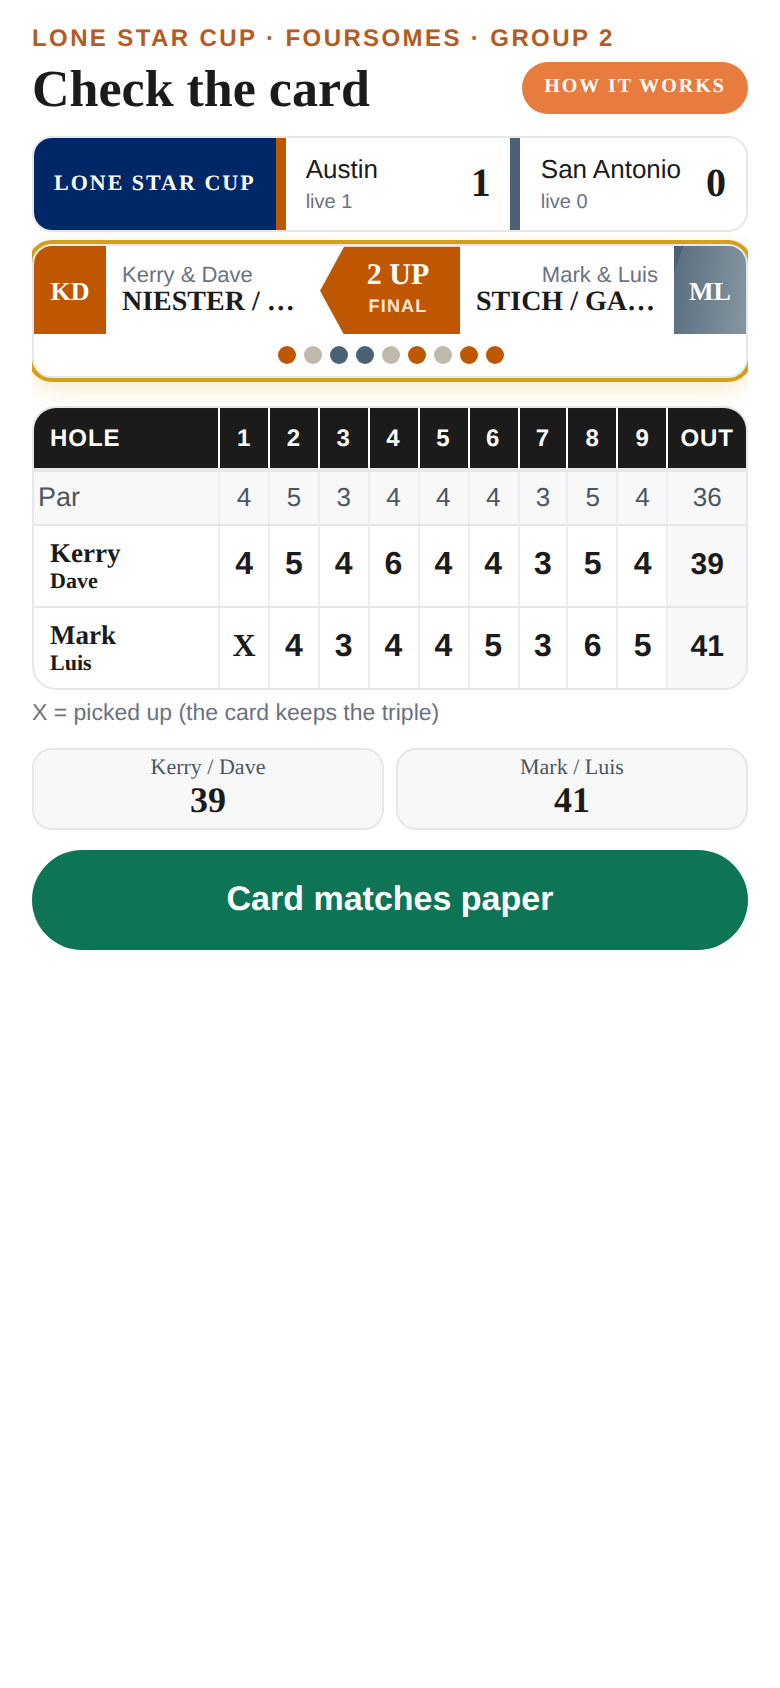
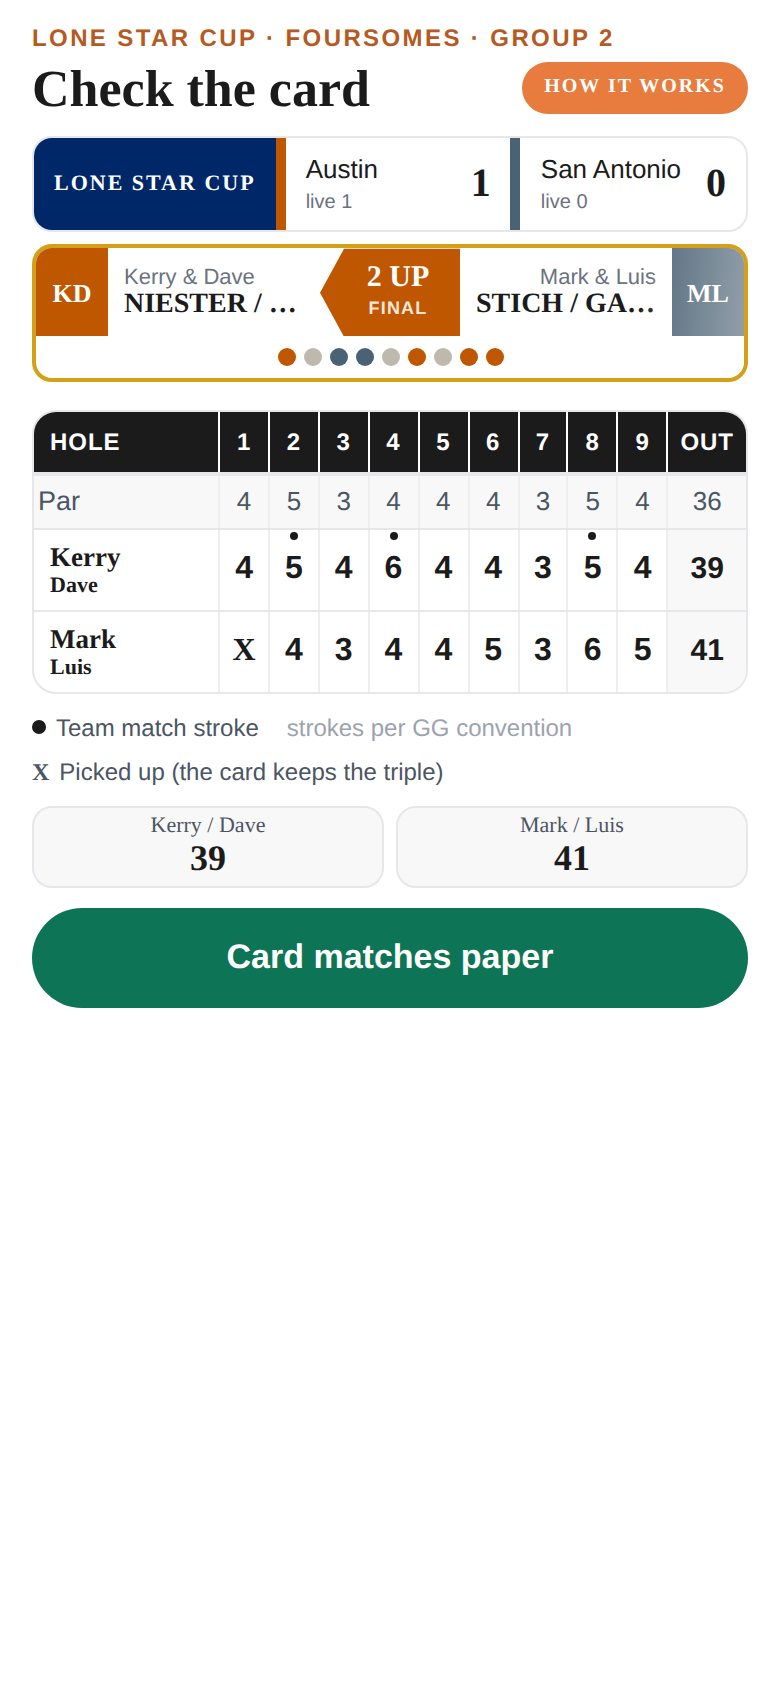
Score entry: Chapman team rows and team pop dots (CA #721)
Claude-Session: https://claude.ai/code/session_01PeGTnLppc6bpJPrSmUWsVP

Changed region(s): [[0.0308, 0.1232, 0.9538, 0.6161], [0.9538, 0.154, 0.9846, 0.2156]]

diff --git a/transaction-tracker/templates/score_entry.html b/transaction-tracker/templates/score_entry.html
@@ -481,7 +481,24 @@
             const g = (m) => Math.max(0, Number(((m || {})[String(cid)] || {})[String(n)]) || 0);
             return {k: g(card.strokes), t: g(card.team_strokes)};
         }
+        // A one-ball team (Chapman in the cup) gets its pops from the match
+        // engine's own strokes for that side (CA #721: "Draw the Chapman team's
+        // pop dots from compute_match_detail's strokes").
+        function teamPops(cids, n) {
+            const key = cids.slice().sort((a, b) => a - b).join(",");
+            for (const m of card.match_status || []) {
+                const k = m.sides.findIndex((sd) => sd.slice().sort((a, b) => a - b).join(",") === key);
+                if (k < 0) continue;
+                const h = (m.card || []).find((x) => x.hole === n);
+                return h ? Math.max(0, h.s[k] || 0) : 0;
+            }
+            return 0;
+        }
         function popDots(cids, n, small) {
+            if (cids && cids.length === 2) {
+                const k = teamPops(cids, n);
+                return k ? `<span class="se-pops${small ? " cell" : ""}" aria-hidden="true"><span class="g">${"<i class=\"se-pop\"></i>".repeat(k)}</span><span class="g"></span></span>` : "";
+            }
             if (!cids || cids.length !== 1) return "";
             const p = popsOf(cids[0], n);
             if (!p.k && !p.t) return "";
@@ -507,8 +524,9 @@
             const solo = new Set(subjects().filter((x) => x.cids.length === 1).map((x) => String(x.cids[0])));
             const any = (m) => Object.entries(m || {}).some(([c, h]) => solo.has(c) && Object.values(h || {}).some((v) => v > 0));
             const a = any(card.strokes), b = any(card.team_strokes);
-            if (!a && !b) return "";
-            return `<div class="se-popkey">${a ? `<span><i class="se-pop"></i>PH pop</span>` : ""}${b ? `<span><i class="se-pop t"></i>${esc((card.team_game || {}).label || "Team Net")} pop</span>` : ""}${card.strokes_note ? `<span style="color:#9CA3AF">${esc(card.strokes_note)}</span>` : ""}</div>`;
+            const tm = subjects().some((x) => x.cids.length === 2 && (card.match_status || []).some((m) => (m.card || []).some((h) => h.s.some((v) => v > 0))));
+            if (!a && !b && !tm) return "";
+            return `<div class="se-popkey">${a ? `<span><i class="se-pop"></i>PH pop</span>` : ""}${tm ? `<span><i class="se-pop"></i>Team match stroke</span>` : ""}${b ? `<span><i class="se-pop t"></i>${esc((card.team_game || {}).label || "Team Net")} pop</span>` : ""}${card.strokes_note ? `<span style="color:#9CA3AF">${esc(card.strokes_note)}</span>` : ""}</div>`;
         }
         // The tee a player plays, from the tee sheet's legend (card.tees).
         function teeOf(cid) {

diff --git a/transaction-tracker/static/js/version.js b/transaction-tracker/static/js/version.js
@@ -1,5 +1,13 @@
-window.TGF_VERSION = "2.501.1";
+window.TGF_VERSION = "2.501.2";
 window.TGF_CHANGELOG = [
+  {
+    version: "2.501.2",
+    date: "2026-09-26",
+    title: "Score entry: Chapman team rows and team pop dots (CA #721)",
+    changes: [
+      "CA #721 (Kerry ratified the Lone Star Cup allowances): the alternate-shot session is CHAPMAN. A Chapman session now makes one team row per pair exactly as foursomes did (a set of one-ball formats, so Track B renaming the format cannot split a pair into two rows), and the team row's pop dots are drawn from the match engine's own strokes for that side ('Draw the Chapman team's pop dots from compute_match_detail's strokes'), keyed 'Team match stroke'. X and pickup behaviour are unchanged."
+    ]
+  },
   {
     version: "2.501.1",
     date: "2026-09-26",

diff --git a/transaction-tracker/test_score_entry.py b/transaction-tracker/test_score_entry.py
@@ -367,6 +367,19 @@ fm = se.get_group_card(fg)["match_status"]
 check("X (the triple, picked up) loses the hole to a holed triple; San Antonio now leads",
       fm[0]["holes"].get("2") == 2 and fm[0]["lead_team"] == "sa", fm)
 check("a singles session's pair is never made a team", not se.get_group_card(sg)["teams"])
+# CA #721: the cup's alternate-shot session is CHAPMAN; the renamed format still makes one team row
+fr2 = se.create_round(900, 9, label="chapman", course_holes=NINE)["round_id"]
+fg2 = se.upsert_group(fr2, 1, players=[{"customer_id": c, "display_name": n, "playing_handicap": ph}
+                                       for c, n, ph in [(101, "Kerry Niester", 2), (105, "Mark Stich", 20),
+                                                        (102, "Adam Baker", 10), (104, "Robert Hogue", 18)]])["group_id"]
+_d = json.loads(db.get_app_setting("lsc_matches"))
+_d["sessions"].append({"id": "s3", "format": "chapman", "se_round": fr2,
+                       "matches": [{"id": "CH1", "austin": [101, 105], "sa": [102, 104]}]})
+db.set_app_setting("lsc_matches", json.dumps(_d))
+_c2 = se.get_group_card(fg2)
+check("a Chapman session makes one team row per pair, like foursomes", len(_c2["teams"]) == 2, _c2["teams"])
+check("the match engine's per-hole strokes reach the card for the team's pop dots",
+      _c2["match_status"] and all("s" in h and len(h["s"]) == 2 for h in _c2["match_status"][0]["card"]), _c2["match_status"][:1])
 db.set_app_setting("lsc_matches", "")
 check("a round-level (non-cup) match has no lead team",
       all(m["lead_team"] is None for m in se.get_group_card(sg)["match_status"]))

diff --git a/transaction-tracker/email_parser/score_entry.py b/transaction-tracker/email_parser/score_entry.py
@@ -1175,6 +1175,13 @@ def _lock_view(lock, device_id: str | None, names: dict) -> dict:
             "heartbeat_at": lock["heartbeat_at"]}
 
 
+# The team formats where a pair plays ONE ball. CA #721 (Kerry ratified
+# 2026-09-26): the cup's alternate-shot session is CHAPMAN, and Track B renames
+# the format from "foursomes"; both names (and plain alternate shot) make one
+# team row, so the rename can't silently split a pair into two rows.
+ONE_BALL_FORMATS = {"foursomes", "chapman", "alternate_shot", "alternate-shot"}
+
+
 def _ensure_cup_teams(group_id: int, db_path=None) -> list:
     """FOURSOMES in the Lone Star Cup (Kerry 2026-09-26: "Team Entries for
     FOURBALL and FOURSOMES. Where it would show both players on one team with
@@ -1195,7 +1202,7 @@ def _ensure_cup_teams(group_id: int, db_path=None) -> list:
                 "SELECT customer_id_a, customer_id_b FROM se_teams WHERE round_id = ?", (rid,))}
         pairs = set()
         for cid, m in round_matches(rid, db_path=db_path).items():
-            if (m.get("format") or "").lower() != "foursomes" or m.get("session") is None:
+            if (m.get("format") or "").lower() not in ONE_BALL_FORMATS or m.get("session") is None:
                 continue
             side = [cid] + [int(c) for c in m.get("partners") or []]
             if len(side) == 2 and all(c in here for c in side):

diff --git a/transaction-tracker/docs/claude/score-entry.md b/transaction-tracker/docs/claude/score-entry.md
@@ -323,6 +323,15 @@ link (R8, a member send — Kerry OKs each batch) come later; the email link
 is the strong identity path, "tap your name" from a shared code is weak and
 is accepted for the beta because every action is logged by device.
 
+## Chapman (CA #721): one team row, team pops from the match engine
+
+Kerry ratified the cup's alternate-shot session as CHAPMAN (60% low + 40% high).
+`ONE_BALL_FORMATS` (`foursomes`, `chapman`, alternate shot) makes one team row per
+pair in `_ensure_cup_teams`, so Track B's rename cannot split a pair into two rows.
+The team row's pop dots come from the match engine's own per-hole strokes for that
+side (`match_status[].card[].s`), key "Team match stroke"; the allowance itself is
+Track B's (`lsc_cup.compute_match_detail`).
+
 ## Entry stays open after a match is decided (CA #717, 2026-09-26)
 
 Kerry's Lone Star Cup ruling via CA #717: "score entry must stay open after a match
